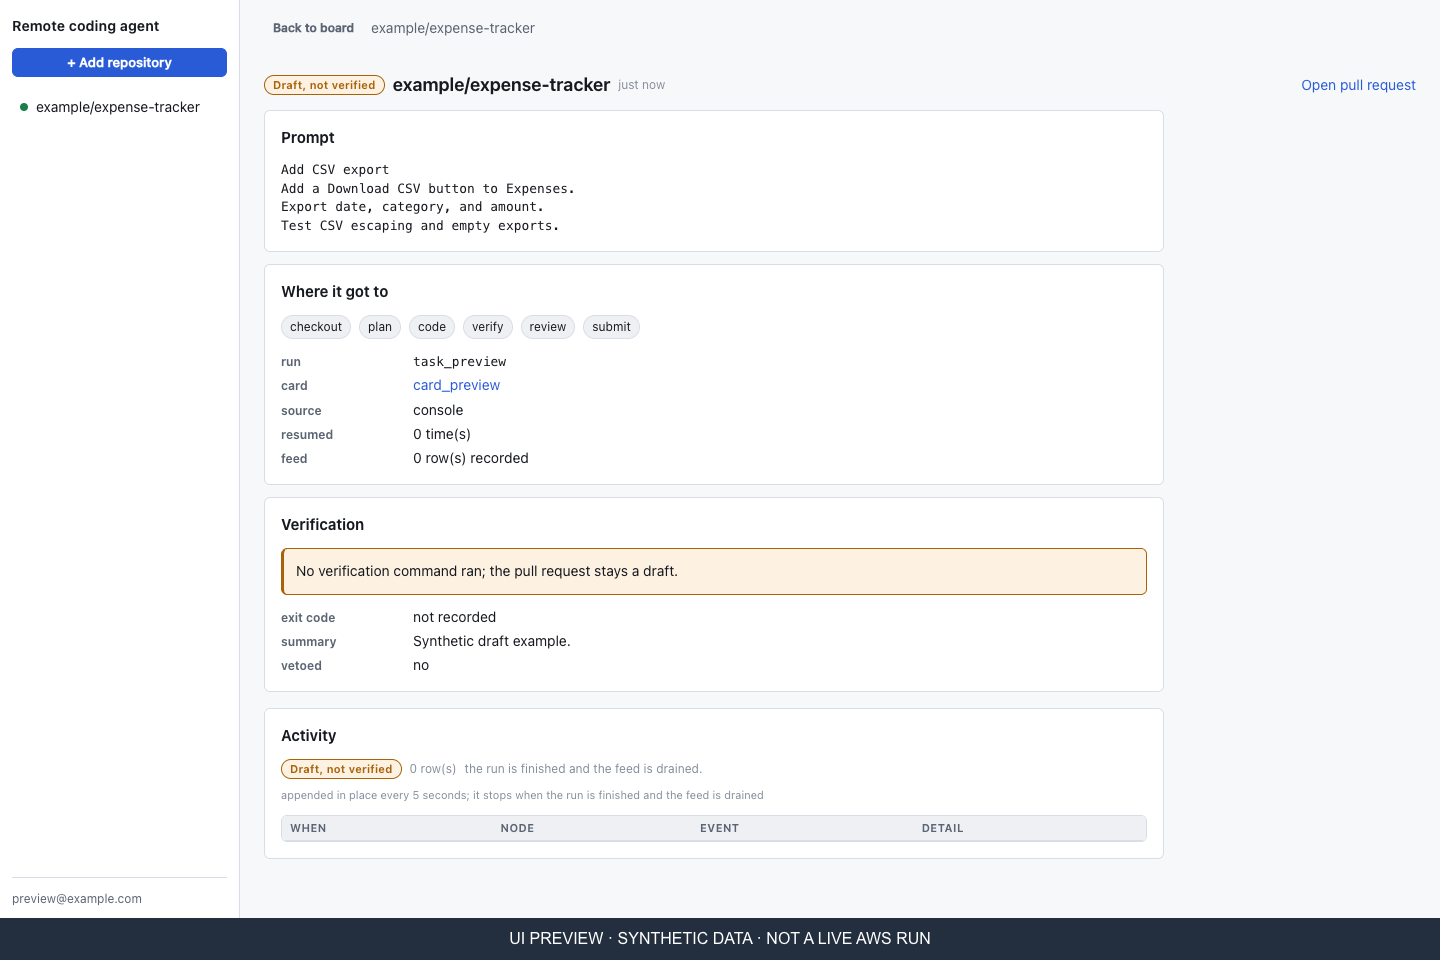
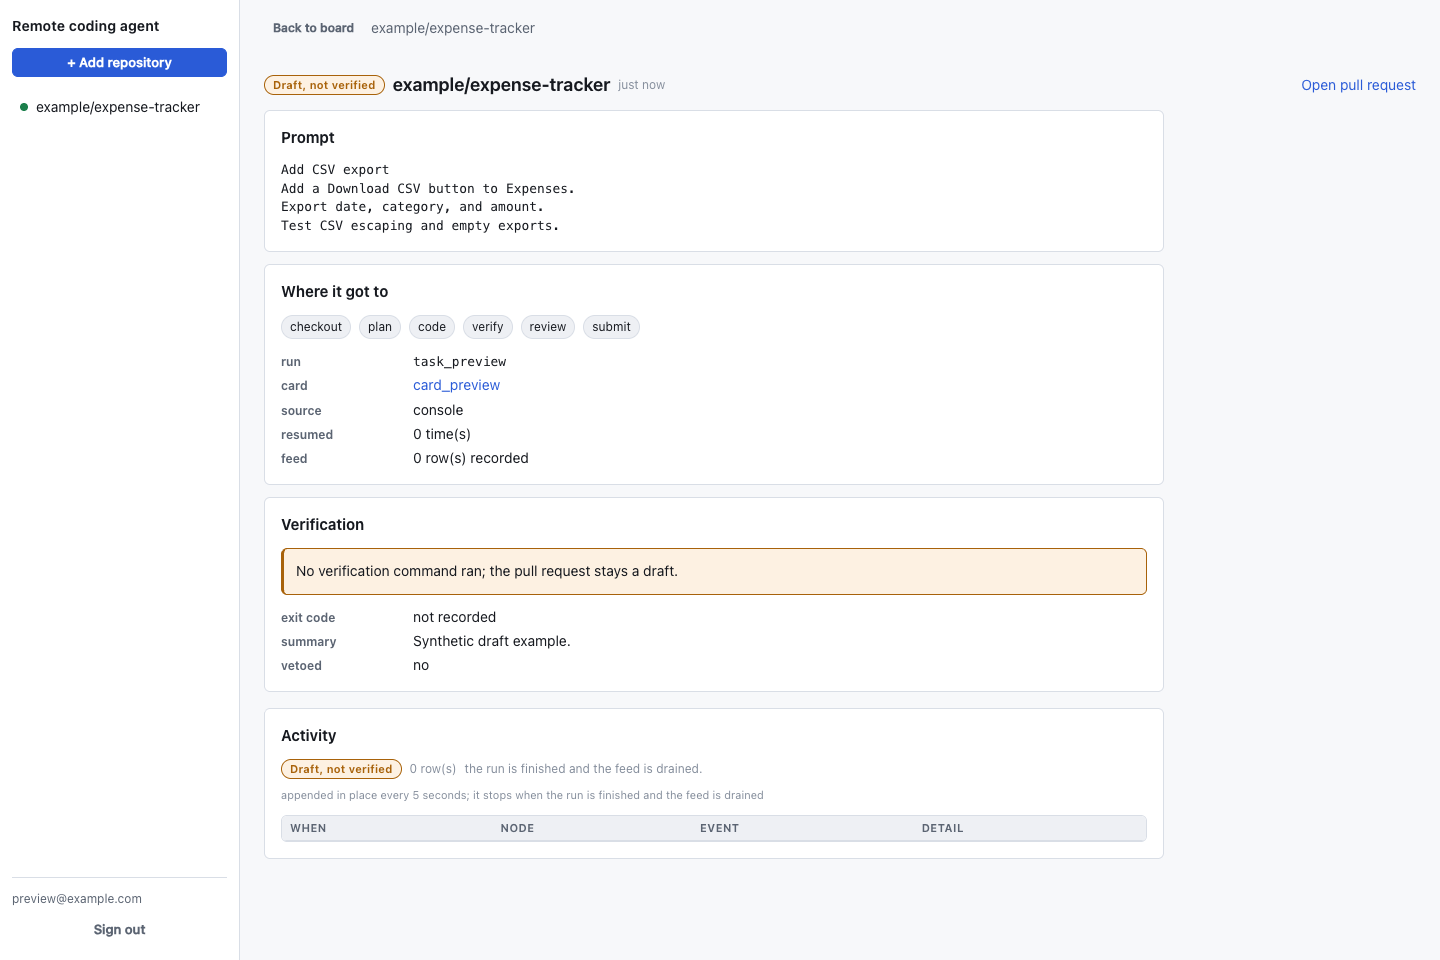
Clarify audience and separate UI and Claude Code quick starts
Lead with the user outcome and factual badges, then distinguish the two entry points to one remote pipeline. Replace the lengthy preview disclaimer and bottom overlay with a concise simulated-sample caption.

Changed region(s): [[0.0, 0.9375, 1.0, 1.0]]

diff --git a/assets/capture-preview.py b/assets/capture-preview.py
@@ -111,13 +111,6 @@ def capture():  # noqa: C901 - Keep the bounded fixture and its linear capture s
             page.add_init_script("""
                 sessionStorage.setItem('rca.idToken', 'preview.' + btoa(JSON.stringify({email:'preview@example.com'})) + '.unsigned');
                 sessionStorage.setItem('rca.expiresAt', '9999999999999');
-                document.addEventListener('DOMContentLoaded', () => {
-                    const label = document.createElement('div');
-                    label.id = 'preview-label';
-                    label.textContent = 'UI PREVIEW · SYNTHETIC DATA · NOT A LIVE AWS RUN';
-                    label.style.cssText = 'position:fixed;bottom:0;left:0;right:0;z-index:9999;background:#232f3e;color:white;padding:12px;text-align:center;font:16px Arial';
-                    document.body.append(label);
-                });
             """)
             page.goto(origin + "/#/boards/cfg_preview")
             composer = page.get_by_role("textbox", name="New card", exact=True)
@@ -139,7 +132,7 @@ def capture():  # noqa: C901 - Keep the bounded fixture and its linear capture s
                     """({title, detail}) => {
                     const cover = document.createElement('div');
                     cover.id = 'preview-slate';
-                    cover.style.cssText = 'position:fixed;inset:0 0 42px;z-index:9998;background:#f6f7fa;display:flex;flex-direction:column;align-items:center;justify-content:center;color:#232f3e;font:24px Arial';
+                    cover.style.cssText = 'position:fixed;inset:0;z-index:9998;background:#f6f7fa;display:flex;flex-direction:column;align-items:center;justify-content:center;color:#232f3e;font:24px Arial';
                     const heading = document.createElement('h1');
                     heading.textContent = title;
                     const text = document.createElement('p');
@@ -150,7 +143,7 @@ def capture():  # noqa: C901 - Keep the bounded fixture and its linear capture s
                     {"title": title, "detail": detail},
                 )
 
-            slate("Create a coding task", "Type the title and description · Add card · Start run")
+            slate("Sample run — simulated", "Add CSV export · Type a task · Add card · Start run")
             frame(2)
             page.locator("#preview-slate").evaluate("(node) => node.remove()")
             frame(1)

diff --git a/tests/test_docs.py b/tests/test_docs.py
@@ -511,7 +511,9 @@ def test_the_readme_has_navigation_and_media() -> None:
     headings = [line for line in text.splitlines() if line.startswith("## ")]
     assert all(heading in headings for heading in _README_HEADINGS + _README_TRAILING_HEADINGS)
     assert text.index("assets/console-preview.gif") < text.index("## Quick start")
-    assert "not a live AWS run" in text
+    assert "Sample run — simulated" in text
+    assert "## Who is this for?" in text
+    assert "### Option A: Web UI" in text and "### Option B: Claude Code" in text
     assert "not an enforced domain allowlist" in text
     for path in (
         "assets/architecture.drawio",
@@ -519,7 +521,7 @@ def test_the_readme_has_navigation_and_media() -> None:
         "assets/console-preview.gif",
         "assets/console-preview.png",
     ):
-        assert path in text
+        assert path in text or Path(path).name in (REPO_ROOT / "assets/README.md").read_text()
         assert (REPO_ROOT / path).is_file()
     assert headings[-2:] == _README_TRAILING_HEADINGS
     cleanup = _section(text, "## Costs and cleanup")

diff --git a/README.md b/README.md
@@ -1,31 +1,35 @@
 # Remote coding agent on Amazon Bedrock AgentCore
 
-Submit a coding task from Claude Code or the web console, follow its progress,
-and get a GitHub pull request with verification evidence. The agent runs remotely
-on Amazon Bedrock AgentCore Runtime, so your terminal does not need to stay open.
+**Turn a coding task into a pull request. Keep your laptop free.**
+
+[![License: MIT-0](https://img.shields.io/badge/License-MIT--0-blue)](LICENSE)
+[![Tested with Python 3.12](https://img.shields.io/badge/Python-tested_3.12-blue)](#before-you-start)
+[![Status: AWS sample](https://img.shields.io/badge/Status-AWS_sample-orange)](#who-is-this-for)
+
+Submit from Claude Code or the web UI. Follow the remote agent's progress and get a
+GitHub pull request with verification evidence, powered by Amazon Bedrock AgentCore Runtime.
 
 ![Real console with synthetic fixture data: a task progresses from Backlog through Planning, Coding and Verifying to Done, then shows verification details.](assets/console-preview.gif)
 
-**UI preview, not a live AWS run.** This recording uses the actual console with synthetic
-API responses and shortened stages. It demonstrates the interface, not agent output or
-execution speed. [Static preview](assets/console-preview.png) ·
-[Capture details and live-demo checklist](assets/README.md#console-preview)
+*Sample run — simulated: add CSV export to an expense tracker.*
 
-[Quick start](#quick-start) · [Architecture](#architecture) ·
+[Quick start](#quick-start) · [Web UI](#option-a-web-ui) · [Claude Code](#option-b-claude-code) · [Architecture](#architecture) ·
 [Costs and cleanup](#costs-and-cleanup) · [Contributing](#contributing)
 
-## Why try it?
+## Who is this for?
 
-- Delegate a bounded bug fix, test addition, or small feature while you keep working.
-- Follow the same task in Claude Code or a live-polled board with run activity and test evidence.
-- Run Claude Code with Bedrock model access and a separate Runtime and AgentCore Memory per repository.
+For **developers** delegating scoped features, bug fixes, and tests, and **platform engineers**
+exploring AWS-hosted coding agents with repository-scoped execution and a shared task console.
 
-**A run that did not verify green opens a draft pull request and says so.**
-`verified` means a real verification command ran and a review judged it green.
+## Why use it?
 
-**This is a sample for trusted repositories in a dedicated AWS account.** It executes
-repository setup and test commands. It does not make untrusted code safe or replace
-human review. A runtime or publishing failure may produce no PR.
+- **Keep working while the agent runs.** Submit a task and let remote execution handle the loop.
+- **See what happened.** Follow planning, coding, verification, and review from one board.
+- **Review the result in GitHub.** Get a PR with verification evidence and an explicit draft outcome when checks do not pass.
+- **Own the deployment.** Each repository gets its own AgentCore Runtime and Memory in your AWS account.
+
+**Use trusted repositories in a dedicated AWS account.** This sample executes repository code;
+it does not make untrusted code safe. A runtime or publishing failure may produce no PR.
 
 ## Quick start
 
@@ -34,7 +38,7 @@ human review. A runtime or publishing failure may produce no PR.
 | You need | Why |
 |---|---|
 | Docker running | the ~1.3 GB ARM64 agent image is built on *this* machine. No build service stands in. |
-| Python ≥ 3.12, `uv` on `PATH`, Node ≥ 20, AWS CLI and credentials | Node is for the pinned CDK CLI; select your intended profile and region |
+| Python ≥ 3.11 (tested with 3.12), `uv`, Node ≥ 20, AWS CLI and credentials | Node is for the pinned CDK CLI; select your intended profile and region |
 | AgentCore availability and active Bedrock inference profiles in your region | Preflight checks the configured services and models |
 | Claude Code with plugin support (optional) | Required for terminal submission; the console can submit tasks without it |
 | `cdk bootstrap`, once per account and region | `make preflight` prints the exact command and never runs it for you |
@@ -57,60 +61,69 @@ human review. A runtime or publishing failure may produce no PR.
    deploy starts spending without confirmation. Allow **15–25 min**, mostly the local image build.
    On completion it prints the console URL, API URL, and region. Check known issues if it stalls.
 
-2. **Install the optional Claude Code plugin, then restart Claude Code.**
+2. **Sign in at the console URL.** Cognito emails a temporary password to `EMAIL`; check spam and change it on first sign-in.
 
-   ```
+3. **Register a disposable repository** with **+ Add repository**. Enter its URL and PAT;
+   leave Advanced folded. Wait **2–5 min** for `READY`; starting sooner returns `409 ConfigurationNotReady`.
+
+   The agent pushes branches and opens PRs. Start with a small repository whose tests already
+   pass. Declare setup/test entry points so verification can run:
+   [command detection details](CLAUDE.md#why-the-makefile-targets-are-named-that-way).
+
+### Choose how to submit tasks
+
+**One deployment, two entry points.** Both queue the same remote agent pipeline and produce
+cards on the same board. Registration is done once in the console, whichever path you use.
+
+| Entry point | Best when | What you need |
+|---|---|---|
+| [Web UI](#option-a-web-ui) | You want to compose tasks and watch them on a board | Console sign-in; no local Claude Code installation |
+| [Claude Code](#option-b-claude-code) | You want to delegate without leaving your terminal | Plugin and AWS credentials for the deployed fleet |
+
+### Option A: Web UI
+
+Open your repository's board. Type the title on the first line and the description below it.
+For an existing expense-tracker app, try:
+
+```text
+Add CSV export
+Add a Download CSV button to Expenses.
+Export date, category, and amount.
+Test CSV escaping and empty exports using the existing test runner.
+```
+
+Click **Add card**, then **Start run** (or drag Backlog → Planning). **Add and start** does
+both at once. Watch **Planning → Coding → Verifying → Done** and click the status for details.
+
+### Option B: Claude Code
+
+4. **Install the plugin, then restart Claude Code.** Web-only users can skip this step.
+
+   ```text
    /plugin marketplace add aws-samples/sample-remote-coding-agent
    /plugin install sample-rca@sample-remote-coding-agent
    ```
 
-   **Leave all three config fields empty** — a value in `RCA_API_URL`, `AWS_REGION` or
-   `RCA_STACK_NAME` **outranks** what the deploy just wrote. The restart is what loads the
-   plugin's MCP server; until then `/sample-rca:remote` has no tools.
+   Leave the config fields empty for discovery. `RCA_API_URL`, `AWS_REGION`, and
+   `RCA_STACK_NAME` overrides **outrank** discovery and may select another fleet.
+   Check the `endpoint used:` line. Restarting loads the plugin's MCP tools.
 
-### Use it
+Submit a task and check its status from Claude Code:
 
-3. **Sign in to the console**, at the URL the deploy printed. Cognito emails a temporary password
-   to the `EMAIL=` address; **check spam**, and the hosted UI makes you change it on first sign-in.
+```text
+/sample-rca:remote Add a Download CSV button to Expenses. Export date, category, and amount. Test CSV escaping and empty exports with the existing test runner.
+/sample-rca:remote status
+```
 
-4. **Register a repository in the console.** A first sign-in lands on the register form; later it
-   is **+ Add repository**. Two fields — the repository URL and the PAT — so leave **Advanced**
-   folded. **2-5 min** to `READY`; a task started sooner gets `409 ConfigurationNotReady`.
+The task also appears in the web UI. For an empty repository, `/sample-rca:scaffold` can
+prepare a local project first; push the scaffold and tests before dispatching a remote task.
 
-   **Register a throwaway repository, not one you care about**: the agent pushes branches and
-   opens pull requests against whatever you register. Start with a small repository whose tests
-   already pass. For an empty repository, run the scaffold locally and push it before dispatch:
+### Review the result
 
-   ```
-   /sample-rca:scaffold
-   ```
-
-5. **Run a task**, or drag a card from **Backlog** to **Planning** — the same path.
-
-   ```
-   /sample-rca:remote Add a regression test for one uncovered edge case in an existing
-   utility function. Keep the change small, use the existing test runner, and run its tests.
-   Explain the chosen case and verification command in the pull request.
-   ```
-
-   Or paste the prompt into the console, choose **Add card**, then start it from Backlog.
-   The call returns **in seconds**, once queued; a run can take **tens of minutes**.
-   These are planning estimates, not guarantees. Declare setup/test entry points so verification
-   can run: [command detection details](CLAUDE.md#why-the-makefile-targets-are-named-that-way).
-
-6. **Watch it**, or the board: Backlog → Planning → Coding → Verifying → Done, live-polled.
-
-   ```
-   /sample-rca:remote status
-   ```
-
-7. **Read the result** — a pull request, **draft if it did not verify green**, with the reason in
-   the body. `SUCCEEDED` means a verification command really ran *and* a review judged it green.
-
-   Click the card's status for the run timeline, activity, and verification command/result.
-   **Reviewing** and **Submitting** appear within Verifying, not as separate board columns.
-   Done means the run ended; “Draft, not verified” and “Failed verification” are not green.
-   Follow **Open pull request** and inspect the diff and evidence before merging.
+Queue acknowledgment takes seconds; execution can take tens of minutes. Unverified runs open **draft PRs**. **Reviewing** and
+**Submitting** are statuses within Verifying, not separate board columns. Done alone is not
+proof of success: `SUCCEEDED` means a verification command ran and review judged it green.
+Follow **Open pull request**, inspect the diff and evidence, and merge only after human review.
 
 ## Architecture
 
@@ -118,15 +131,14 @@ human review. A runtime or publishing failure may produce no PR.
 
 [Editable draw.io source](assets/architecture.drawio) · [Asset sources](assets/README.md#architecture)
 
-The local MCP server signs requests to an IAM-authorized HTTP API. The browser uses
-CloudFront/S3 and a separate Cognito-authorized HTTP API. Both reach shared Lambda
-handlers and the SQS dispatcher. Each repository owns a Runtime; tasks run in isolated
-sessions with a clone and checkpoint under `/mnt/workspace`.
+The local MCP server uses an IAM-authorized API; the browser uses CloudFront/S3 and a
+Cognito-authorized API. Both reach Lambda and SQS. Each repository owns a Runtime;
+tasks run in isolated sessions with a clone and checkpoint under `/mnt/workspace`.
 
-The agent runs **checkout → plan → code → verify → review → submit**, with bounded
-re-planning or re-verification. It writes status/activity to DynamoDB; the console polls
-through the API. Each repository's AgentCore Memory is created at registration and deleted
-at deregistration. Later tasks can retrieve earlier lessons; a repository without memory runs without it.
+The agent runs **checkout → plan → code → verify → review → submit**, with bounded rework.
+It writes status/activity to DynamoDB; the console polls through the API. AgentCore Memory
+is created at registration and deleted at deregistration. Tasks can retrieve earlier lessons;
+a repository without memory runs without it.
 
 VPC endpoints connect runtime traffic to **Bedrock, AgentCore, Secrets Manager,
 DynamoDB, ECR API/Docker, S3, and CloudWatch Logs**. Lambda runs outside the agent VPC.
@@ -137,10 +149,9 @@ blocks named vendor domains only. [Boundary details](CLAUDE.md#the-boundary-clai
 
 ## Costs and cleanup
 
-Deployment incurs charges even between tasks: NAT gateways, interface VPC endpoints,
-WAF, images, logs, and stored data can all cost money. Tasks add AgentCore Runtime,
-Bedrock, memory, and supporting-service usage. No measured whole-stack monthly or per-task
-cost estimate is published yet.
+NAT gateways, interface VPC endpoints, WAF, images, logs, and stored data can cost money
+even between tasks. Tasks add Runtime, Bedrock, and memory usage. No measured whole-stack
+monthly or per-task cost estimate is published yet.
 
 The default **$200 monthly Bedrock budget sends email notifications**, not a hard spending
 cap, and does not cover every service. Monitor your actual account charges.
@@ -157,25 +168,17 @@ before deleting them; some are the only history of your runs.
 ## Troubleshooting
 
 - **A tool recommends `/sample-rca:setup`.** That command is gone; run `make deploy EMAIL=you@example.com` from a checkout.
-- **The console URL answers `<Error><Code>AccessDenied</Code></Error>`.** The bucket has no
-  `index.html`. Re-run the deploy above; it is not an OAC or IAM problem.
-- **The temporary password is lost or expired.** Redeployment does not resend it. Use Cognito's
-  resend action with the pool ID from the console stack; see [operator notes](CLAUDE.md#what-the-walkthrough-touches-and-where-it-lives).
-- **Every tool reports success but the console lists no repository.** A leftover `RCA_API_URL` is
-  aiming the tools at another deployment; every tool's answer ends with an `endpoint used:` line.
+- **Console returns AccessDenied XML.** Check that deployment uploaded `index.html` before changing IAM.
+- **Temporary password expired.** Redeployment does not resend it; see [operator recovery notes](CLAUDE.md#what-the-walkthrough-touches-and-where-it-lives).
+- **Tools succeed but the board is empty.** Check `endpoint used:` and stale API overrides for another deployment.
 - **Another `/remote` command answers.** Use `/sample-rca:remote`; other plugin namespaces are unrelated.
 
-Known onboarding issues: [VPC quota preflight](https://github.com/aws-samples/sample-remote-coding-agent/issues/2),
-[Cognito domain collisions](https://github.com/aws-samples/sample-remote-coding-agent/issues/3),
-[deploy completion](https://github.com/aws-samples/sample-remote-coding-agent/issues/5),
-[wrong-account 403 handling](https://github.com/aws-samples/sample-remote-coding-agent/issues/7), and
-[account selection](https://github.com/aws-samples/sample-remote-coding-agent/issues/8).
-Check their current status before deploying.
+Check current setup issues before deploying: [VPC quota](https://github.com/aws-samples/sample-remote-coding-agent/issues/2), [Cognito domain](https://github.com/aws-samples/sample-remote-coding-agent/issues/3),
+[deployment](https://github.com/aws-samples/sample-remote-coding-agent/issues/5), [wrong-account handling](https://github.com/aws-samples/sample-remote-coding-agent/issues/7), [account selection](https://github.com/aws-samples/sample-remote-coding-agent/issues/8).
 
 ## Contributing
 
-Run `make setup`, `make test`, and `make lint` from a checkout before proposing a change.
-Local tests use fake AWS services; they do not prove a deployed fleet works.
+Run `make setup`, `make test`, and `make lint`. Local tests use fake AWS services, not a deployed fleet.
 See [contribution guidelines](CONTRIBUTING.md), [code of conduct](CODE_OF_CONDUCT.md),
 and [maintainer reference](CLAUDE.md). Keep diagrams and previews in sync with UI changes.
 
@@ -185,9 +188,8 @@ Use a fine-grained PAT for one trusted repository and protect its default branch
 The account boundary does not stop repository code from making outbound HTTPS requests.
 [Remaining exposure](CLAUDE.md#what-remains-exposed)
 
-Model-data handling, stored logs/memory, and regional residency are separate questions.
-Bedrock invocation logging is a retention choice; default `global.` inference profiles
-can serve outside your deployment region. Review the
+Bedrock invocation logging is a retention choice; default `global.` inference profiles can
+serve outside your deployment region. Review the
 [logging qualification](CLAUDE.md#qualification-1--model-invocation-logging-is-a-retention-choice)
 and [data residency](CLAUDE.md#data-residency) before sending sensitive code.
 
@@ -195,5 +197,4 @@ See [CONTRIBUTING](CONTRIBUTING.md#security-issue-notifications) for more inform
 
 ## License
 
-This sample is licensed under the [MIT-0 License](LICENSE). Third-party visual assets retain
-their respective rights; see [asset attribution](assets/README.md#architecture).
+This sample uses the [MIT-0 License](LICENSE). See [attribution](assets/README.md#architecture) for third-party artwork rights.

diff --git a/assets/README.md b/assets/README.md
@@ -4,7 +4,7 @@
 
 `console-preview.gif` is a **synthetic UI preview**, not a recording of an AWS agent run.
 It captures the unmodified console from this branch using browser-intercepted API responses.
-The persistent on-screen label makes the distinction visible even when the GIF is shared alone.
+The opening title and README caption say “Sample run — simulated”; there is no bottom overlay.
 The example repository, task, verification evidence, and PR URL are fixtures. No AWS or GitHub
 requests are made. There is no measured task duration. Typing plays at 10 frames per second,
 stages pause for four seconds, and the ending holds for five seconds before replaying.
@@ -28,7 +28,7 @@ rendered stages, the board-column mapping, and the result link.
 It blocks external browser requests and fails on JavaScript errors or unexpected API calls.
 The fixture is **Add CSV export** in `example/expense-tracker`: add a Download CSV button
 to Expenses, export date/category/amount, and test CSV escaping and empty exports.
-Its illustrative verification command is `npm test`. `console-preview.png` is the static fallback.
+Its illustrative verification command is `npm test`. [Static preview](console-preview.png).
 UI source baseline: `72e8b3f` (2026-09-28). Refresh when the UI or status vocabulary changes.
 
 ### Live recording still required
